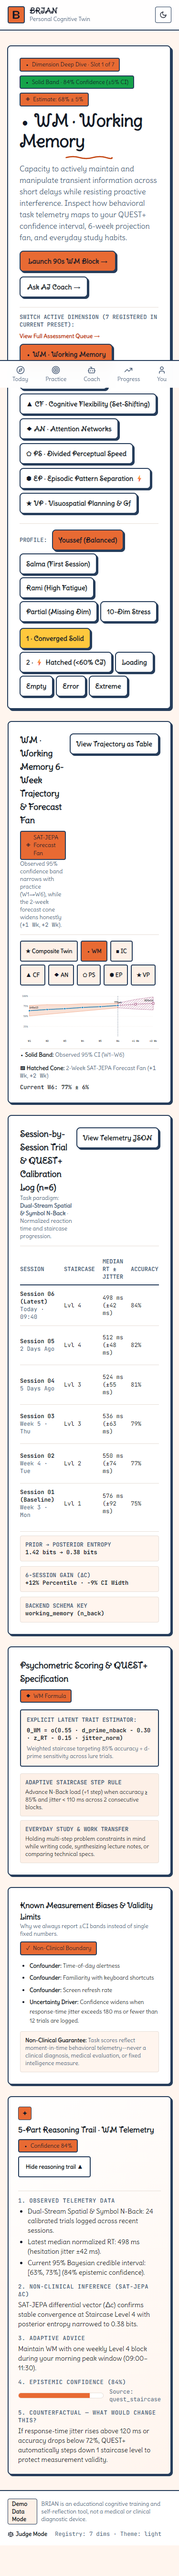
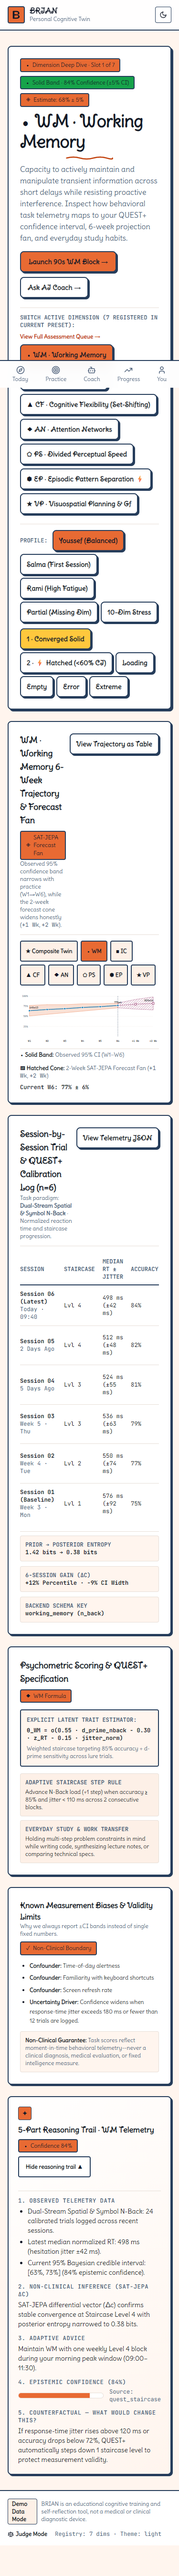
fix(e2e): eliminate mid-transition contrast flakes in welcome and dimensionDetail specs with reducedMotion

Changed region(s): [[0.088, 0.0311, 0.8213, 0.2803], [0.9387, 0.0311, 0.968, 0.2803], [0.0293, 0.0311, 0.0587, 0.2803]]

diff --git a/frontend/e2e/welcome.spec.ts b/frontend/e2e/welcome.spec.ts
@@ -53,6 +53,7 @@ test.describe('Page 01: Welcome (/) Hero Visual QA & A11y', () => {
 
     // Verify Dark theme (Night Lab) screenshot & zero axe violations
     await page.getByRole('button', { name: /Dark \(Night Lab\)/i }).first().click()
+    await page.waitForTimeout(300)
     const darkAxeResults = await new AxeBuilder({ page }).analyze()
     expect(darkAxeResults.violations).toEqual([])
     await page.screenshot({

diff --git a/frontend/e2e/dimensionDetail.spec.ts b/frontend/e2e/dimensionDetail.spec.ts
@@ -75,6 +75,7 @@ test.describe('Page 07: Dimension Detail (/dimensions/:dimId) Visual QA & A11y',
     await page
       .getByRole('button', { name: /VP · Visuospatial Planning/i })
       .click()
+    await page.waitForTimeout(300)
 
     const axeDark = await new AxeBuilder({ page }).analyze()
     expect(axeDark.violations).toEqual([])

diff --git a/frontend/playwright.config.ts b/frontend/playwright.config.ts
@@ -7,6 +7,7 @@ export default defineConfig({
   use: {
     baseURL: 'http://localhost:4173',
     trace: 'off',
+    reducedMotion: 'reduce',
     ...(process.env.CI ? {} : { channel: 'chrome' }),
   },
   webServer: {
